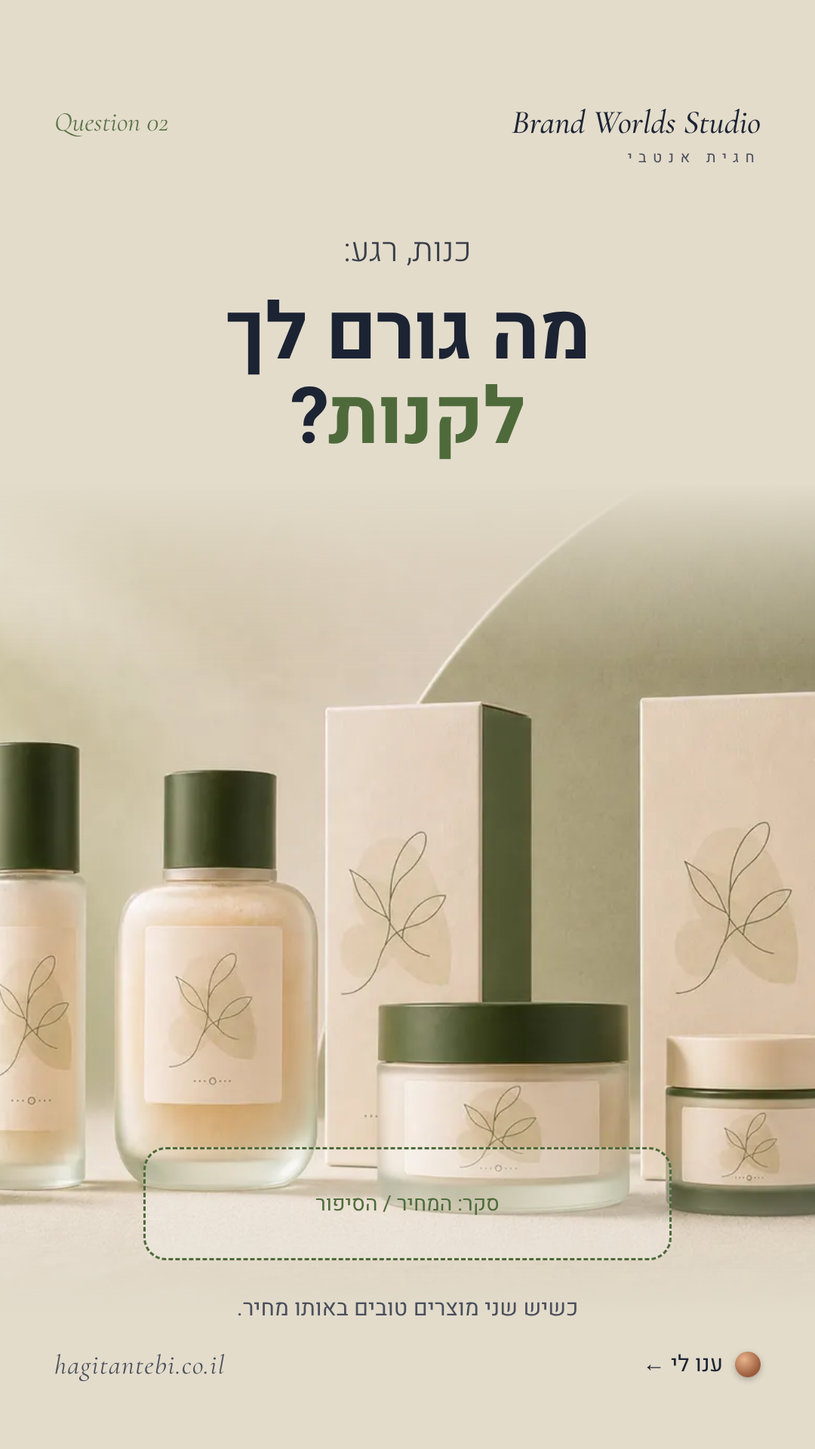
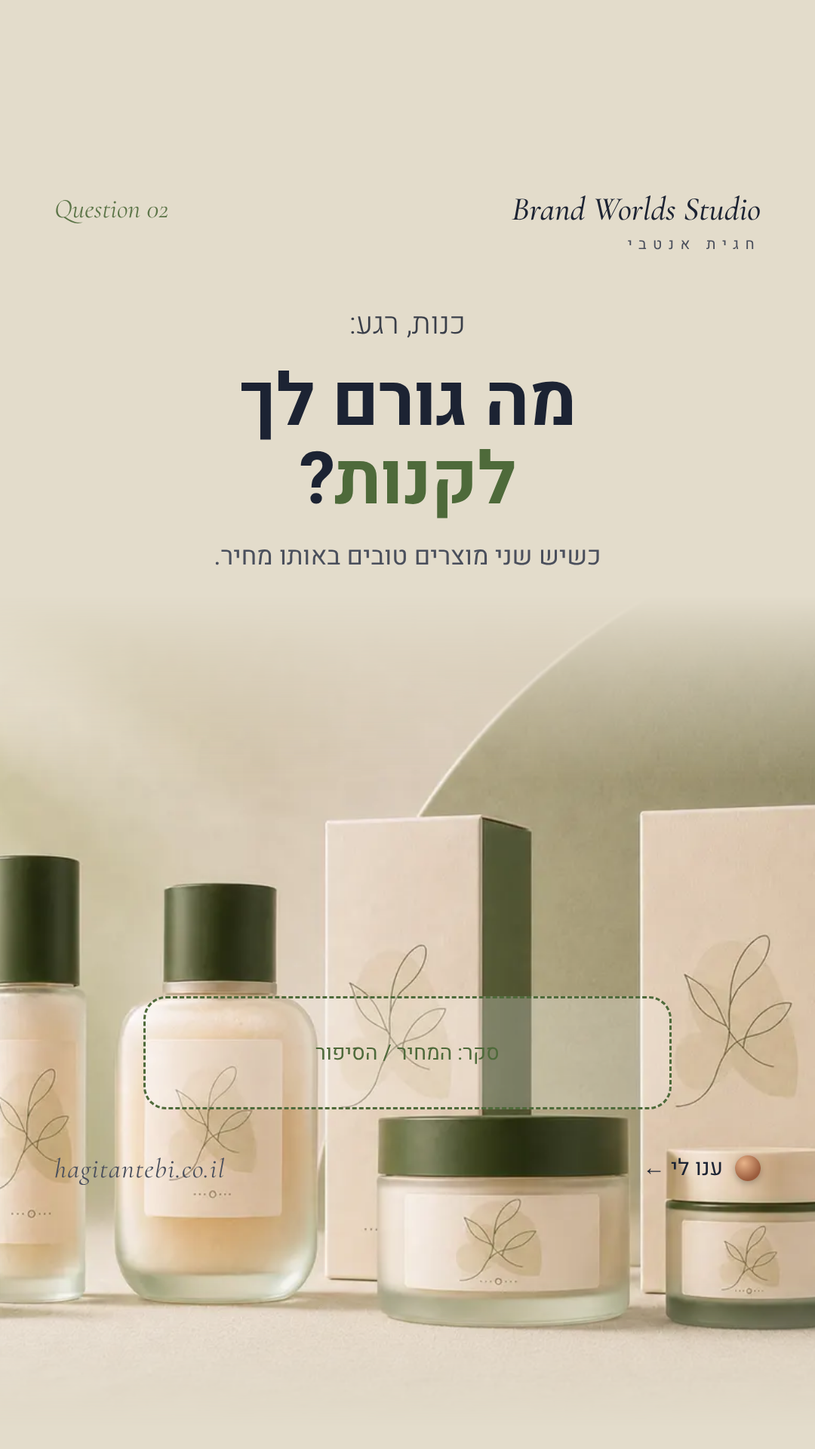
Story questions: move important lines into Instagram safe zone
Claude-Session: https://claude.ai/code/session_01Uv8GehHYJawohb17PJMioU

diff --git a/campaign-drop/2026-11-stories/questions/src/questions.html b/campaign-drop/2026-11-stories/questions/src/questions.html
@@ -6,33 +6,35 @@ body{background:#999;font-family:'Heebo',sans-serif}
 .s.dark{--ink:#F6EFE4;--soft:#BFB4A6}
 .img{position:absolute;left:0;right:0;background-size:cover;background-repeat:no-repeat;
  -webkit-mask-image:linear-gradient(to bottom,transparent 0,#000 22%,#000 82%,transparent 100%);mask-image:linear-gradient(to bottom,transparent 0,#000 22%,#000 82%,transparent 100%)}
-header{position:absolute;top:140px;left:72px;right:72px;display:flex;justify-content:space-between;align-items:flex-start}
+header{position:absolute;top:255px;left:72px;right:72px;display:flex;justify-content:space-between;align-items:flex-start}
 .brand{text-align:right}
 .brand b{display:block;font-family:'Cormorant Garamond',serif;font-style:italic;font-weight:500;font-size:44px;direction:ltr;line-height:1}
 .brand span{display:block;font-size:20px;letter-spacing:.42em;color:var(--soft);margin-top:10px}
 .kick{font-family:'Cormorant Garamond',serif;font-style:italic;font-size:36px;color:var(--acc);direction:ltr;opacity:.9}
-.head{position:absolute;top:300px;left:72px;right:72px;text-align:center}
-.pre{font-size:44px;font-weight:300;color:var(--ink);opacity:.85}
-h1{font-size:104px;font-weight:700;line-height:1.08;margin-top:22px;letter-spacing:-.01em}
+.head{position:absolute;top:400px;left:72px;right:72px;text-align:center}
+.pre{font-size:40px;font-weight:300;color:var(--ink);opacity:.85}
+h1{font-size:96px;font-weight:700;line-height:1.08;margin-top:22px;letter-spacing:-.01em}
 h1 em{font-style:normal;color:var(--acc)}
-.sub{position:absolute;top:1712px;left:90px;right:90px;text-align:center;font-size:30px;font-weight:400;color:var(--soft)}
-footer{position:absolute;bottom:90px;left:72px;right:72px;display:flex;justify-content:space-between;align-items:center;direction:ltr}
+.sub{margin-top:26px;font-size:34px;font-weight:400;color:var(--soft);line-height:1.4}
+footer{position:absolute;bottom:350px;left:72px;right:72px;display:flex;justify-content:space-between;align-items:center;direction:ltr}
 .site{font-family:'Cormorant Garamond',serif;font-style:italic;font-size:36px;letter-spacing:.04em;color:var(--soft)}
 .cta{font-size:30px;color:var(--ink);display:flex;align-items:center;gap:16px;direction:rtl}
 .cta i{width:34px;height:34px;border-radius:50%;background:radial-gradient(circle at 35% 30%,#E8B48A,#9A5B3C 70%);box-shadow:0 3px 8px rgba(0,0,0,.25)}
 .sticker{position:absolute;left:190px;right:190px;border:3px dashed var(--acc);border-radius:30px;display:flex;align-items:center;justify-content:center;font-size:28px;color:var(--acc);background:rgba(255,255,255,.25)}
 .clean .sticker{display:none}
-.ab{position:absolute;top:640px;left:72px;right:72px;display:flex;gap:28px}
+.ab{position:absolute;top:790px;left:72px;right:72px;display:flex;gap:28px}
 .ab figure{flex:1}
-.ab .ph{height:800px;border-radius:280px 280px 18px 18px;background-size:cover;background-position:50% 55%;box-shadow:0 20px 50px rgba(28,35,51,.15)}
+.ab .ph{height:500px;border-radius:220px 220px 18px 18px;background-size:cover;background-position:50% 55%;box-shadow:0 20px 50px rgba(28,35,51,.15)}
 .ab figcaption{text-align:center;margin-top:26px;font-family:'Cormorant Garamond',serif;font-size:40px;letter-spacing:.3em;direction:ltr}
+
+.safe .s:after{content:'';position:absolute;inset:0;border-top:250px solid rgba(255,0,0,.25);border-bottom:340px solid rgba(255,0,0,.25);pointer-events:none}
 </style></head><body>
-<section class="s" id="q1" style="--bg:#EFE6DA;--acc:#9A5B3C"><div class="img" style="top:560px;height:1180px;background-image:url(../../../../encore/assets/touchpoints/bags-four-sans.webp);background-position:50% 60%"></div><header><div class="brand"><b>Brand Worlds Studio</b><span>חגית אנטבי</span></div><div class="kick">Question 01</div></header><div class="head"><p class="pre">משחק קטן:</p><h1>אם נסתיר את הלוגו,<br>עדיין <em>יזהו</em> אותך?</h1></div><div class="sticker" style="top:1500px;height:150px">סקר: כן, מיד / עוד לא</div><p class="sub">ארבע שקיות. בלי שם, בלי לוגו.</p><footer><span class="site">hagitantebi.co.il</span><span class="cta"><i></i>ענו לי ←</span></footer></section>
-<section class="s" id="q2" style="--bg:#EFE6DA;--acc:#9A5B3C"><div class="img" style="top:560px;height:1180px;background-image:url(../../../../encore/assets/touchpoints/bags-four.webp);background-position:50% 60%"></div><header><div class="brand"><b>Brand Worlds Studio</b><span>חגית אנטבי</span></div><div class="kick">The Answer</div></header><div class="head"><p class="pre">זיהית?</p><h1>הצבעים <em>אמרו</em><br>את השם קודם.</h1></div><div class="sticker" style="top:1500px;height:150px">קישור: לעולם ENCORE°</div><p class="sub"><bdi>ENCORE°</bdi> · ארבע שעות ביום, ארבעה צבעים. הלוגו הוא רק חתימה.</p><footer><span class="site">hagitantebi.co.il</span><span class="cta"><i></i>ענו לי ←</span></footer></section>
-<section class="s" id="q3" style="--bg:#E4E9F0;--acc:#8E2E4E"><div class="ab"><figure><div class="ph" style="background-image:url(../../../../velune/assets/10-bottle-aube-day-m.webp)"></div><figcaption>A · AUBE</figcaption></figure><figure><div class="ph" style="background-image:url(../../../../velune/assets/09-bottle-blush-garden-m.webp)"></div><figcaption>B · BLUSH</figcaption></figure></div><header><div class="brand"><b>Brand Worlds Studio</b><span>חגית אנטבי</span></div><div class="kick">This or That</div></header><div class="head"><p class="pre">אותו בקבוק. שני בקרים.</p><h1>איזה מהם<br><em>שלך</em>?</h1></div><div class="sticker" style="top:1560px;height:150px">סקר: Aube / Blush</div><p class="sub"><bdi>VELUNE° Maison de Parfum</bdi></p><footer><span class="site">hagitantebi.co.il</span><span class="cta"><i></i>ענו לי ←</span></footer></section>
-<section class="s" id="q4" style="--bg:#F3E6D4;--acc:#4F7A34"><div class="img" style="top:520px;height:1400px;background-image:url(../../../../chasen/img/glass_fraise.webp);background-position:50% 30%"></div><header><div class="brand"><b>Brand Worlds Studio</b><span>חגית אנטבי</span></div><div class="kick">CHASEN° 01</div></header><div class="head"><p class="pre">לפני הכוס, היה משפט:</p><h1>מאצ'ה לא מזמינים.<br><em>מרכיבים.</em></h1></div><div class="sticker" style="top:1560px;height:150px">סליידר אימוג&#x27;י 🍓</div><p class="sub">מאצ'ה עם תות. כן או ממש לא?</p><footer><span class="site">hagitantebi.co.il</span><span class="cta"><i></i>ענו לי ←</span></footer></section>
-<section class="s" id="q5" style="--bg:#E3DCCB;--acc:#4E6A3A"><div class="img" style="top:640px;height:1100px;background-image:url(../../../../elvea/assets/img/collection-lineup.webp);background-position:50% 50%"></div><header><div class="brand"><b>Brand Worlds Studio</b><span>חגית אנטבי</span></div><div class="kick">Question 02</div></header><div class="head"><p class="pre">כנות, רגע:</p><h1>מה גורם לך<br><em>לקנות</em>?</h1></div><div class="sticker" style="top:1520px;height:150px">סקר: המחיר / הסיפור</div><p class="sub">כשיש שני מוצרים טובים באותו מחיר.</p><footer><span class="site">hagitantebi.co.il</span><span class="cta"><i></i>ענו לי ←</span></footer></section>
-<section class="s dark" id="q6" style="--bg:#0E0B09;--acc:#D4B896"><div class="img" style="top:560px;height:1300px;background-image:url(../../../../signe/assets/touchpoints/box-sans.webp);background-position:50% 55%"></div><header><div class="brand"><b>Brand Worlds Studio</b><span>חגית אנטבי</span></div><div class="kick">Question 03</div></header><div class="head"><p class="pre">בלי לחשוב יותר מדי:</p><h1>קונים את הקופסה,<br>או את <em>מה שבפנים</em>?</h1></div><div class="sticker" style="top:1540px;height:150px">סקר: את הקופסה / את מה שבפנים</div><p class="sub"><bdi>SIGNÉ°</bdi> · קופסה שחורה, וחוט זהב אחד.</p><footer><span class="site">hagitantebi.co.il</span><span class="cta"><i></i>ענו לי ←</span></footer></section>
-<section class="s" id="q7" style="--bg:#E6DBCC;--acc:#8C2340"><div class="img" style="top:660px;height:1150px;background-image:url(../../../../pardon-me/assets/hero.webp);background-position:52% 50%"></div><header><div class="brand"><b>Brand Worlds Studio</b><span>חגית אנטבי</span></div><div class="kick">Your Turn</div></header><div class="head"><p class="pre">לפני הקופסה, היה משפט:</p><h1>מה המשפט<br>של <em>המותג שלך</em>?</h1></div><div class="sticker" style="top:1470px;height:230px">תיבת שאלה: כתבי לי את המשפט</div><p class="sub"><bdi>PARDON ME°</bdi> · "מנומס מבחוץ. לא מתנצל מבפנים."</p><footer><span class="site">hagitantebi.co.il</span><span class="cta"><i></i>ענו לי ←</span></footer></section>
-<section class="s" id="q8" style="--bg:#EBD3CA;--acc:#B0475E"><div class="img" style="top:600px;height:1250px;background-image:url(../../../../miel/assets/41-slice-vanille-framboise-m.webp);background-position:50% 60%"></div><header><div class="brand"><b>Brand Worlds Studio</b><span>חגית אנטבי</span></div><div class="kick">MIEL° 27</div></header><div class="head"><p class="pre">רואים מה שבפנים:</p><h1>כמה בא לך<br><em>עכשיו</em>?</h1></div><div class="sticker" style="top:1560px;height:150px">סליידר אימוג&#x27;י 🍰</div><p class="sub">וניל ופטל. חתך אחד, ארבע שכבות.</p><footer><span class="site">hagitantebi.co.il</span><span class="cta"><i></i>ענו לי ←</span></footer></section>
+<section class="s" id="q1" style="--bg:#EFE6DA;--acc:#9A5B3C"><div class="img" style="top:710px;height:1180px;background-image:url(../../../../encore/assets/touchpoints/bags-four-sans.webp);background-position:50% 60%"></div><header><div class="brand"><b>Brand Worlds Studio</b><span>חגית אנטבי</span></div><div class="kick">Question 01</div></header><div class="head"><p class="pre">משחק קטן:</p><h1>אם נסתיר את הלוגו,<br>עדיין <em>יזהו</em> אותך?</h1><p class="sub">ארבע שקיות. בלי שם, בלי לוגו.</p></div><div class="sticker" style="top:1300px;height:150px">סקר: כן, מיד / עוד לא</div><footer><span class="site">hagitantebi.co.il</span><span class="cta"><i></i>ענו לי ←</span></footer></section>
+<section class="s" id="q2" style="--bg:#EFE6DA;--acc:#9A5B3C"><div class="img" style="top:710px;height:1180px;background-image:url(../../../../encore/assets/touchpoints/bags-four.webp);background-position:50% 60%"></div><header><div class="brand"><b>Brand Worlds Studio</b><span>חגית אנטבי</span></div><div class="kick">The Answer</div></header><div class="head"><p class="pre">זיהית?</p><h1>הצבעים <em>אמרו</em><br>את השם קודם.</h1><p class="sub"><bdi>ENCORE°</bdi> · ארבע שעות ביום, ארבעה צבעים. הלוגו הוא רק חתימה.</p></div><div class="sticker" style="top:1300px;height:150px">קישור: לעולם ENCORE°</div><footer><span class="site">hagitantebi.co.il</span><span class="cta"><i></i>ענו לי ←</span></footer></section>
+<section class="s" id="q3" style="--bg:#E4E9F0;--acc:#8E2E4E"><div class="ab"><figure><div class="ph" style="background-image:url(../../../../velune/assets/10-bottle-aube-day-m.webp)"></div><figcaption>A · AUBE</figcaption></figure><figure><div class="ph" style="background-image:url(../../../../velune/assets/09-bottle-blush-garden-m.webp)"></div><figcaption>B · BLUSH</figcaption></figure></div><header><div class="brand"><b>Brand Worlds Studio</b><span>חגית אנטבי</span></div><div class="kick">This or That</div></header><div class="head"><p class="pre">אותו בקבוק. שני בקרים.</p><h1>איזה מהם<br><em>שלך</em>?</h1><p class="sub"><bdi>VELUNE° Maison de Parfum</bdi></p></div><div class="sticker" style="top:1380px;height:120px">סקר: Aube / Blush</div><footer><span class="site">hagitantebi.co.il</span><span class="cta"><i></i>ענו לי ←</span></footer></section>
+<section class="s" id="q4" style="--bg:#F3E6D4;--acc:#4F7A34"><div class="img" style="top:670px;height:1400px;background-image:url(../../../../chasen/img/glass_fraise.webp);background-position:50% 30%"></div><header><div class="brand"><b>Brand Worlds Studio</b><span>חגית אנטבי</span></div><div class="kick">CHASEN° 01</div></header><div class="head"><p class="pre">לפני הכוס, היה משפט:</p><h1>מאצ'ה לא מזמינים.<br><em>מרכיבים.</em></h1><p class="sub">מאצ'ה עם תות. כן או ממש לא?</p></div><div class="sticker" style="top:1330px;height:150px">סליידר אימוג&#x27;י 🍓</div><footer><span class="site">hagitantebi.co.il</span><span class="cta"><i></i>ענו לי ←</span></footer></section>
+<section class="s" id="q5" style="--bg:#E3DCCB;--acc:#4E6A3A"><div class="img" style="top:790px;height:1100px;background-image:url(../../../../elvea/assets/img/collection-lineup.webp);background-position:50% 50%"></div><header><div class="brand"><b>Brand Worlds Studio</b><span>חגית אנטבי</span></div><div class="kick">Question 02</div></header><div class="head"><p class="pre">כנות, רגע:</p><h1>מה גורם לך<br><em>לקנות</em>?</h1><p class="sub">כשיש שני מוצרים טובים באותו מחיר.</p></div><div class="sticker" style="top:1320px;height:150px">סקר: המחיר / הסיפור</div><footer><span class="site">hagitantebi.co.il</span><span class="cta"><i></i>ענו לי ←</span></footer></section>
+<section class="s dark" id="q6" style="--bg:#0E0B09;--acc:#D4B896"><div class="img" style="top:710px;height:1300px;background-image:url(../../../../signe/assets/touchpoints/box-sans.webp);background-position:50% 55%"></div><header><div class="brand"><b>Brand Worlds Studio</b><span>חגית אנטבי</span></div><div class="kick">Question 03</div></header><div class="head"><p class="pre">בלי לחשוב יותר מדי:</p><h1>קונים את הקופסה,<br>או את <em>מה שבפנים</em>?</h1><p class="sub"><bdi>SIGNÉ°</bdi> · קופסה שחורה, וחוט זהב אחד.</p></div><div class="sticker" style="top:1330px;height:150px">סקר: את הקופסה / את מה שבפנים</div><footer><span class="site">hagitantebi.co.il</span><span class="cta"><i></i>ענו לי ←</span></footer></section>
+<section class="s" id="q7" style="--bg:#E6DBCC;--acc:#8C2340"><div class="img" style="top:810px;height:1150px;background-image:url(../../../../pardon-me/assets/hero.webp);background-position:52% 50%"></div><header><div class="brand"><b>Brand Worlds Studio</b><span>חגית אנטבי</span></div><div class="kick">Your Turn</div></header><div class="head"><p class="pre">לפני הקופסה, היה משפט:</p><h1>מה המשפט<br>של <em>המותג שלך</em>?</h1><p class="sub"><bdi>PARDON ME°</bdi> · "מנומס מבחוץ. לא מתנצל מבפנים."</p></div><div class="sticker" style="top:1270px;height:230px">תיבת שאלה: כתבי לי את המשפט</div><footer><span class="site">hagitantebi.co.il</span><span class="cta"><i></i>ענו לי ←</span></footer></section>
+<section class="s" id="q8" style="--bg:#EBD3CA;--acc:#B0475E"><div class="img" style="top:750px;height:1250px;background-image:url(../../../../miel/assets/41-slice-vanille-framboise-m.webp);background-position:50% 60%"></div><header><div class="brand"><b>Brand Worlds Studio</b><span>חגית אנטבי</span></div><div class="kick">MIEL° 27</div></header><div class="head"><p class="pre">רואים מה שבפנים:</p><h1>כמה בא לך<br><em>עכשיו</em>?</h1><p class="sub">וניל ופטל. חתך אחד, ארבע שכבות.</p></div><div class="sticker" style="top:1330px;height:150px">סליידר אימוג&#x27;י 🍰</div><footer><span class="site">hagitantebi.co.il</span><span class="cta"><i></i>ענו לי ←</span></footer></section>
 </body></html>

diff --git a/campaign-drop/2026-11-stories/questions/src/style.css b/campaign-drop/2026-11-stories/questions/src/style.css
@@ -4,23 +4,25 @@ body{background:#999;font-family:'Heebo',sans-serif}
 .s.dark{--ink:#F6EFE4;--soft:#BFB4A6}
 .img{position:absolute;left:0;right:0;background-size:cover;background-repeat:no-repeat;
  -webkit-mask-image:linear-gradient(to bottom,transparent 0,#000 22%,#000 82%,transparent 100%);mask-image:linear-gradient(to bottom,transparent 0,#000 22%,#000 82%,transparent 100%)}
-header{position:absolute;top:140px;left:72px;right:72px;display:flex;justify-content:space-between;align-items:flex-start}
+header{position:absolute;top:255px;left:72px;right:72px;display:flex;justify-content:space-between;align-items:flex-start}
 .brand{text-align:right}
 .brand b{display:block;font-family:'Cormorant Garamond',serif;font-style:italic;font-weight:500;font-size:44px;direction:ltr;line-height:1}
 .brand span{display:block;font-size:20px;letter-spacing:.42em;color:var(--soft);margin-top:10px}
 .kick{font-family:'Cormorant Garamond',serif;font-style:italic;font-size:36px;color:var(--acc);direction:ltr;opacity:.9}
-.head{position:absolute;top:300px;left:72px;right:72px;text-align:center}
-.pre{font-size:44px;font-weight:300;color:var(--ink);opacity:.85}
-h1{font-size:104px;font-weight:700;line-height:1.08;margin-top:22px;letter-spacing:-.01em}
+.head{position:absolute;top:400px;left:72px;right:72px;text-align:center}
+.pre{font-size:40px;font-weight:300;color:var(--ink);opacity:.85}
+h1{font-size:96px;font-weight:700;line-height:1.08;margin-top:22px;letter-spacing:-.01em}
 h1 em{font-style:normal;color:var(--acc)}
-.sub{position:absolute;top:1712px;left:90px;right:90px;text-align:center;font-size:30px;font-weight:400;color:var(--soft)}
-footer{position:absolute;bottom:90px;left:72px;right:72px;display:flex;justify-content:space-between;align-items:center;direction:ltr}
+.sub{margin-top:26px;font-size:34px;font-weight:400;color:var(--soft);line-height:1.4}
+footer{position:absolute;bottom:350px;left:72px;right:72px;display:flex;justify-content:space-between;align-items:center;direction:ltr}
 .site{font-family:'Cormorant Garamond',serif;font-style:italic;font-size:36px;letter-spacing:.04em;color:var(--soft)}
 .cta{font-size:30px;color:var(--ink);display:flex;align-items:center;gap:16px;direction:rtl}
 .cta i{width:34px;height:34px;border-radius:50%;background:radial-gradient(circle at 35% 30%,#E8B48A,#9A5B3C 70%);box-shadow:0 3px 8px rgba(0,0,0,.25)}
 .sticker{position:absolute;left:190px;right:190px;border:3px dashed var(--acc);border-radius:30px;display:flex;align-items:center;justify-content:center;font-size:28px;color:var(--acc);background:rgba(255,255,255,.25)}
 .clean .sticker{display:none}
-.ab{position:absolute;top:640px;left:72px;right:72px;display:flex;gap:28px}
+.ab{position:absolute;top:790px;left:72px;right:72px;display:flex;gap:28px}
 .ab figure{flex:1}
-.ab .ph{height:800px;border-radius:280px 280px 18px 18px;background-size:cover;background-position:50% 55%;box-shadow:0 20px 50px rgba(28,35,51,.15)}
+.ab .ph{height:500px;border-radius:220px 220px 18px 18px;background-size:cover;background-position:50% 55%;box-shadow:0 20px 50px rgba(28,35,51,.15)}
 .ab figcaption{text-align:center;margin-top:26px;font-family:'Cormorant Garamond',serif;font-size:40px;letter-spacing:.3em;direction:ltr}
+
+.safe .s:after{content:'';position:absolute;inset:0;border-top:250px solid rgba(255,0,0,.25);border-bottom:340px solid rgba(255,0,0,.25);pointer-events:none}

diff --git a/campaign-drop/2026-11-stories/questions/src/build.py b/campaign-drop/2026-11-stories/questions/src/build.py
@@ -2,30 +2,30 @@
 import pathlib, html
 R = '../../../../'  # repo root from src/
 S = [
- dict(id='q1', bg='#EFE6DA', img='encore/assets/touchpoints/bags-four-sans.webp', pos='50% 60%', ih=1180, top=560,
+ dict(id='q1', bg='#EFE6DA', img='encore/assets/touchpoints/bags-four-sans.webp', pos='50% 60%', ih=1180, top=710,
       kick='Question 01', pre='משחק קטן:', h='אם נסתיר את הלוגו,<br>עדיין <em>יזהו</em> אותך?', acc='#9A5B3C',
-      sub='ארבע שקיות. בלי שם, בלי לוגו.', sticker='סקר: כן, מיד / עוד לא', sy=1500),
- dict(id='q2', bg='#EFE6DA', img='encore/assets/touchpoints/bags-four.webp', pos='50% 60%', ih=1180, top=560,
+      sub='ארבע שקיות. בלי שם, בלי לוגו.', sticker='סקר: כן, מיד / עוד לא', sy=1300),
+ dict(id='q2', bg='#EFE6DA', img='encore/assets/touchpoints/bags-four.webp', pos='50% 60%', ih=1180, top=710,
       kick='The Answer', pre='זיהית?', h='הצבעים <em>אמרו</em><br>את השם קודם.', acc='#9A5B3C',
-      sub='<bdi>ENCORE°</bdi> · ארבע שעות ביום, ארבעה צבעים. הלוגו הוא רק חתימה.', sticker='קישור: לעולם ENCORE°', sy=1500),
+      sub='<bdi>ENCORE°</bdi> · ארבע שעות ביום, ארבעה צבעים. הלוגו הוא רק חתימה.', sticker='קישור: לעולם ENCORE°', sy=1300),
  dict(id='q3', kind='ab', bg='#E4E9F0', a='velune/assets/10-bottle-aube-day-m.webp', b='velune/assets/09-bottle-blush-garden-m.webp',
       la='AUBE', lb='BLUSH', kick='This or That', pre='אותו בקבוק. שני בקרים.', h='איזה מהם<br><em>שלך</em>?', acc='#8E2E4E',
-      sub='<bdi>VELUNE° Maison de Parfum</bdi>', sticker='סקר: Aube / Blush', sy=1560),
- dict(id='q4', bg='#F3E6D4', img='chasen/img/glass_fraise.webp', pos='50% 30%', ih=1400, top=520, narrow=True,
+      sub='<bdi>VELUNE° Maison de Parfum</bdi>', sticker='סקר: Aube / Blush', sy=1380, sh=120),
+ dict(id='q4', bg='#F3E6D4', img='chasen/img/glass_fraise.webp', pos='50% 30%', ih=1400, top=670, narrow=True,
       kick='CHASEN° 01', pre='לפני הכוס, היה משפט:', h='מאצ\'ה לא מזמינים.<br><em>מרכיבים.</em>', acc='#4F7A34',
-      sub='מאצ\'ה עם תות. כן או ממש לא?', sticker='סליידר אימוג\'י 🍓', sy=1560),
- dict(id='q5', bg='#E3DCCB', img='elvea/assets/img/collection-lineup.webp', pos='50% 50%', ih=1100, top=640, wide=True,
+      sub='מאצ\'ה עם תות. כן או ממש לא?', sticker='סליידר אימוג\'י 🍓', sy=1330),
+ dict(id='q5', bg='#E3DCCB', img='elvea/assets/img/collection-lineup.webp', pos='50% 50%', ih=1100, top=790, wide=True,
       kick='Question 02', pre='כנות, רגע:', h='מה גורם לך<br><em>לקנות</em>?', acc='#4E6A3A',
-      sub='כשיש שני מוצרים טובים באותו מחיר.', sticker='סקר: המחיר / הסיפור', sy=1520),
- dict(id='q6', dark=True, bg='#0E0B09', img='signe/assets/touchpoints/box-sans.webp', pos='50% 55%', ih=1300, top=560,
+      sub='כשיש שני מוצרים טובים באותו מחיר.', sticker='סקר: המחיר / הסיפור', sy=1320),
+ dict(id='q6', dark=True, bg='#0E0B09', img='signe/assets/touchpoints/box-sans.webp', pos='50% 55%', ih=1300, top=710,
       kick='Question 03', pre='בלי לחשוב יותר מדי:', h='קונים את הקופסה,<br>או את <em>מה שבפנים</em>?', acc='#D4B896',
-      sub='<bdi>SIGNÉ°</bdi> · קופסה שחורה, וחוט זהב אחד.', sticker='סקר: את הקופסה / את מה שבפנים', sy=1540),
- dict(id='q7', bg='#E6DBCC', img='pardon-me/assets/hero.webp', pos='52% 50%', ih=1150, top=660, wide=True,
+      sub='<bdi>SIGNÉ°</bdi> · קופסה שחורה, וחוט זהב אחד.', sticker='סקר: את הקופסה / את מה שבפנים', sy=1330),
+ dict(id='q7', bg='#E6DBCC', img='pardon-me/assets/hero.webp', pos='52% 50%', ih=1150, top=810, wide=True,
       kick='Your Turn', pre='לפני הקופסה, היה משפט:', h='מה המשפט<br>של <em>המותג שלך</em>?', acc='#8C2340',
-      sub='<bdi>PARDON ME°</bdi> · "מנומס מבחוץ. לא מתנצל מבפנים."', sticker='תיבת שאלה: כתבי לי את המשפט', sy=1470, sh=230),
- dict(id='q8', bg='#EBD3CA', img='miel/assets/41-slice-vanille-framboise-m.webp', pos='50% 60%', ih=1250, top=600, wide=True,
+      sub='<bdi>PARDON ME°</bdi> · "מנומס מבחוץ. לא מתנצל מבפנים."', sticker='תיבת שאלה: כתבי לי את המשפט', sy=1270, sh=230),
+ dict(id='q8', bg='#EBD3CA', img='miel/assets/41-slice-vanille-framboise-m.webp', pos='50% 60%', ih=1250, top=750, wide=True,
       kick='MIEL° 27', pre='רואים מה שבפנים:', h='כמה בא לך<br><em>עכשיו</em>?', acc='#B0475E',
-      sub='וניל ופטל. חתך אחד, ארבע שכבות.', sticker='סליידר אימוג\'י 🍰', sy=1560),
+      sub='וניל ופטל. חתך אחד, ארבע שכבות.', sticker='סליידר אימוג\'י 🍰', sy=1330),
 ]
 css = open(pathlib.Path(__file__).with_name('style.css')).read()
 out = ['<!doctype html><html lang="he" dir="rtl"><head><meta charset="utf-8">',
@@ -41,9 +41,8 @@ for s in S:
         o.append(f'<div class="img" style="top:{s["top"]}px;height:{s["ih"]}px;background-image:url({R}{s["img"]});background-position:{s["pos"]}"></div>')
     o.append('<header><div class="brand"><b>Brand Worlds Studio</b><span>חגית אנטבי</span></div>'
              f'<div class="kick">{s["kick"]}</div></header>')
-    o.append(f'<div class="head"><p class="pre">{s["pre"]}</p><h1>{s["h"]}</h1></div>')
+    o.append(f'<div class="head"><p class="pre">{s["pre"]}</p><h1>{s["h"]}</h1><p class="sub">{s["sub"]}</p></div>')
     o.append(f'<div class="sticker" style="top:{s["sy"]}px;height:{s.get("sh",150)}px">{html.escape(s["sticker"])}</div>')
-    o.append(f'<p class="sub">{s["sub"]}</p>')
     o.append('<footer><span class="site">hagitantebi.co.il</span><span class="cta"><i></i>ענו לי ←</span></footer></section>')
     out.append(''.join(o))
 out.append('</body></html>')

diff --git a/campaign-drop/2026-11-stories/README.md b/campaign-drop/2026-11-stories/README.md
@@ -3,7 +3,7 @@
 - Root PNGs: clean, ready to upload. Add the Instagram sticker in the empty area of each frame.
 - `_guides/`: the same frames with a dashed box showing where the sticker goes and which kind (poll / link / slider / question).
 - Source: `src/stories.html`. To render again: open it with Playwright at 1080×1920 and screenshot `#s1`…`#s6` (add `body.hide-guides` for the clean version).
-- Top and bottom ~150px are left empty for the Instagram UI.
+- Instagram safe zone: nothing important in the top 250px or the bottom 340px (the reply bar and the action buttons cover them).
 
 ## questions/ — question & poll series (8 frames)
 In the style of the CHASEN / ROSÉE stories. q1 (logo hidden) and q2 (the answer) are posted as a pair.
